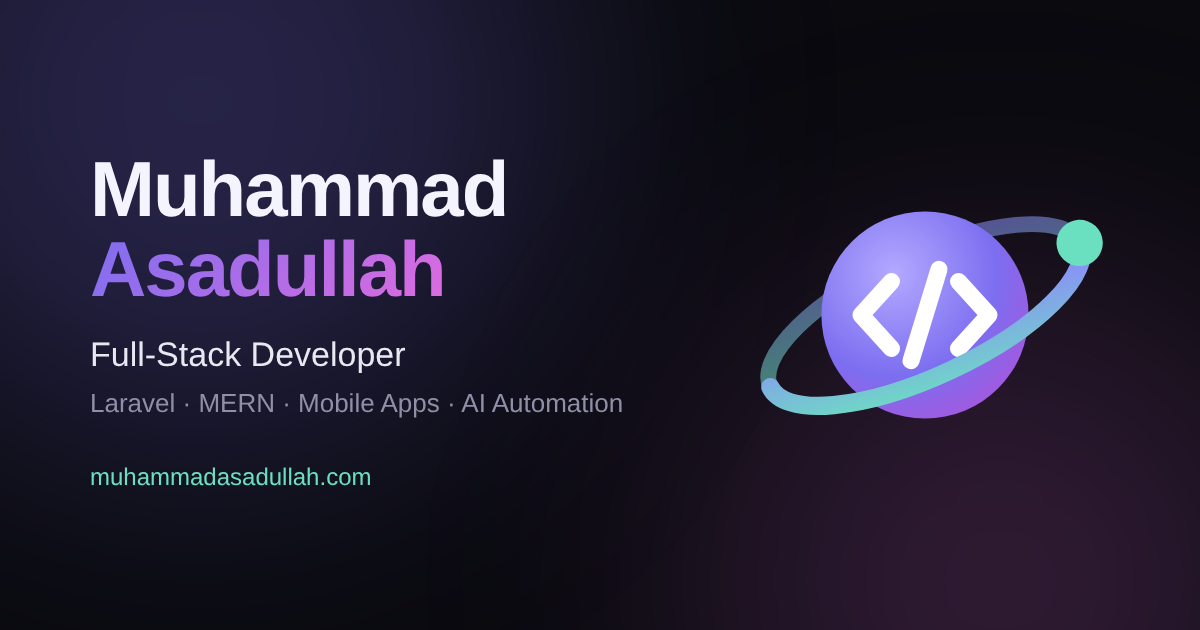
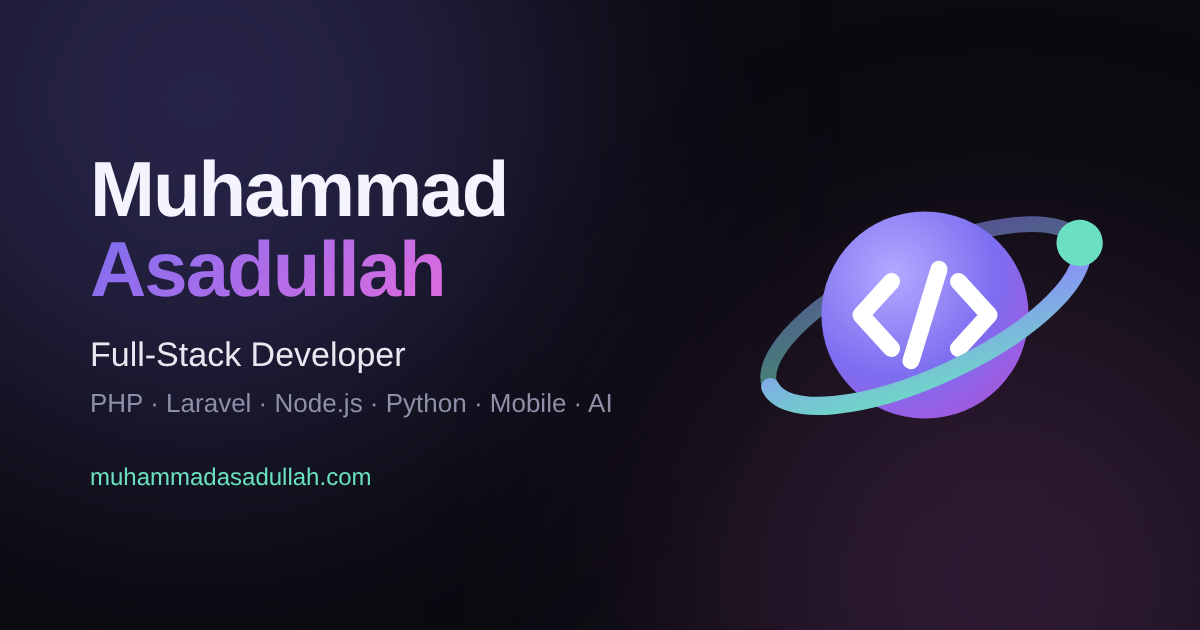
Update role line: PHP, Laravel, Node.js, Python, Mobile & AI Automation
- Hero role line, CV header and share image tagline updated to the new stack list

Claude-Session: https://claude.ai/code/session_01BBkmNoLN2C7XpCBJJDQgV5

Changed region(s): [[0.0617, 0.6032, 0.5242, 0.6635]]

diff --git a/index.html b/index.html
@@ -697,7 +697,7 @@
       <div class="hero-content">
         <p class="hero-badge"><span class="badge-dot" aria-hidden="true"></span>Available for freelance &amp; remote work</p>
         <h1 class="hero-name">Muhammad <span class="gradient-text">Asadullah</span></h1>
-        <p class="hero-role">Full-Stack Developer <span>· Laravel, MERN, Mobile &amp; AI Automation</span></p>
+        <p class="hero-role">Full-Stack Developer <span>· PHP, Laravel, Node.js, Python, Mobile &amp; AI Automation</span></p>
         <p class="hero-desc">
           I help startups, businesses and agencies turn ideas into fast, scalable <strong>web and mobile products</strong> — using Laravel, the MERN stack and AI automation — with clear communication and on-time delivery.
         </p>
